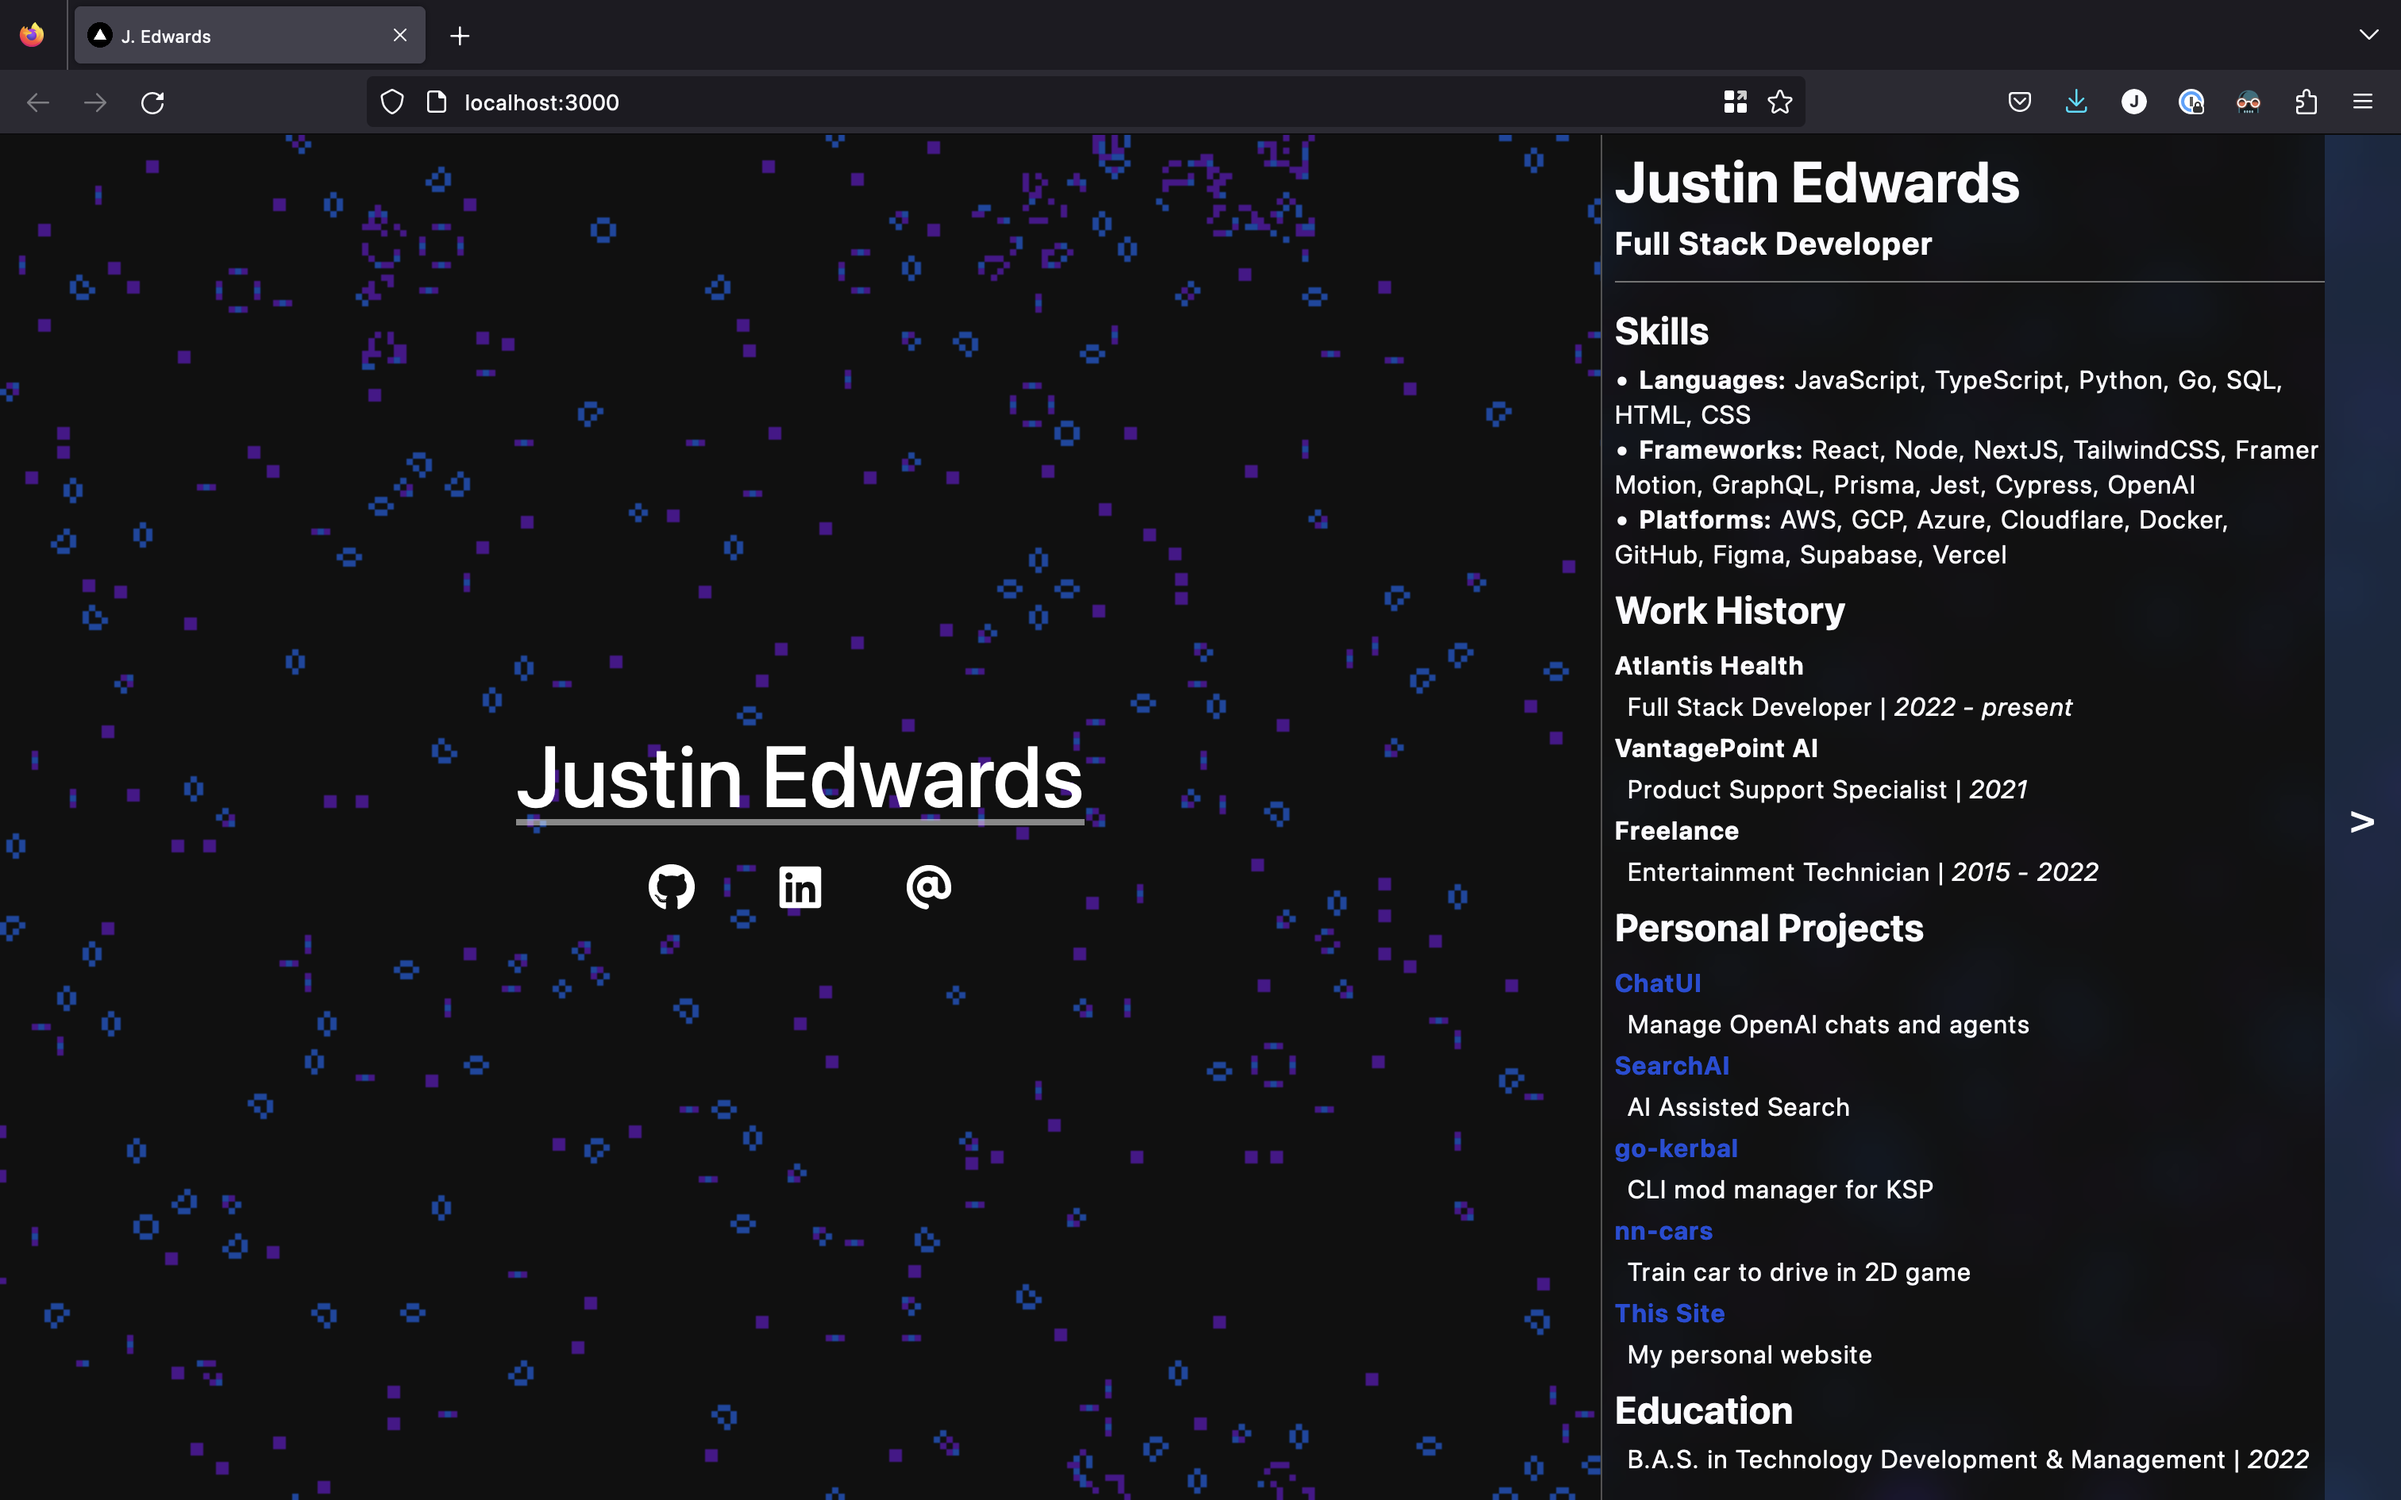
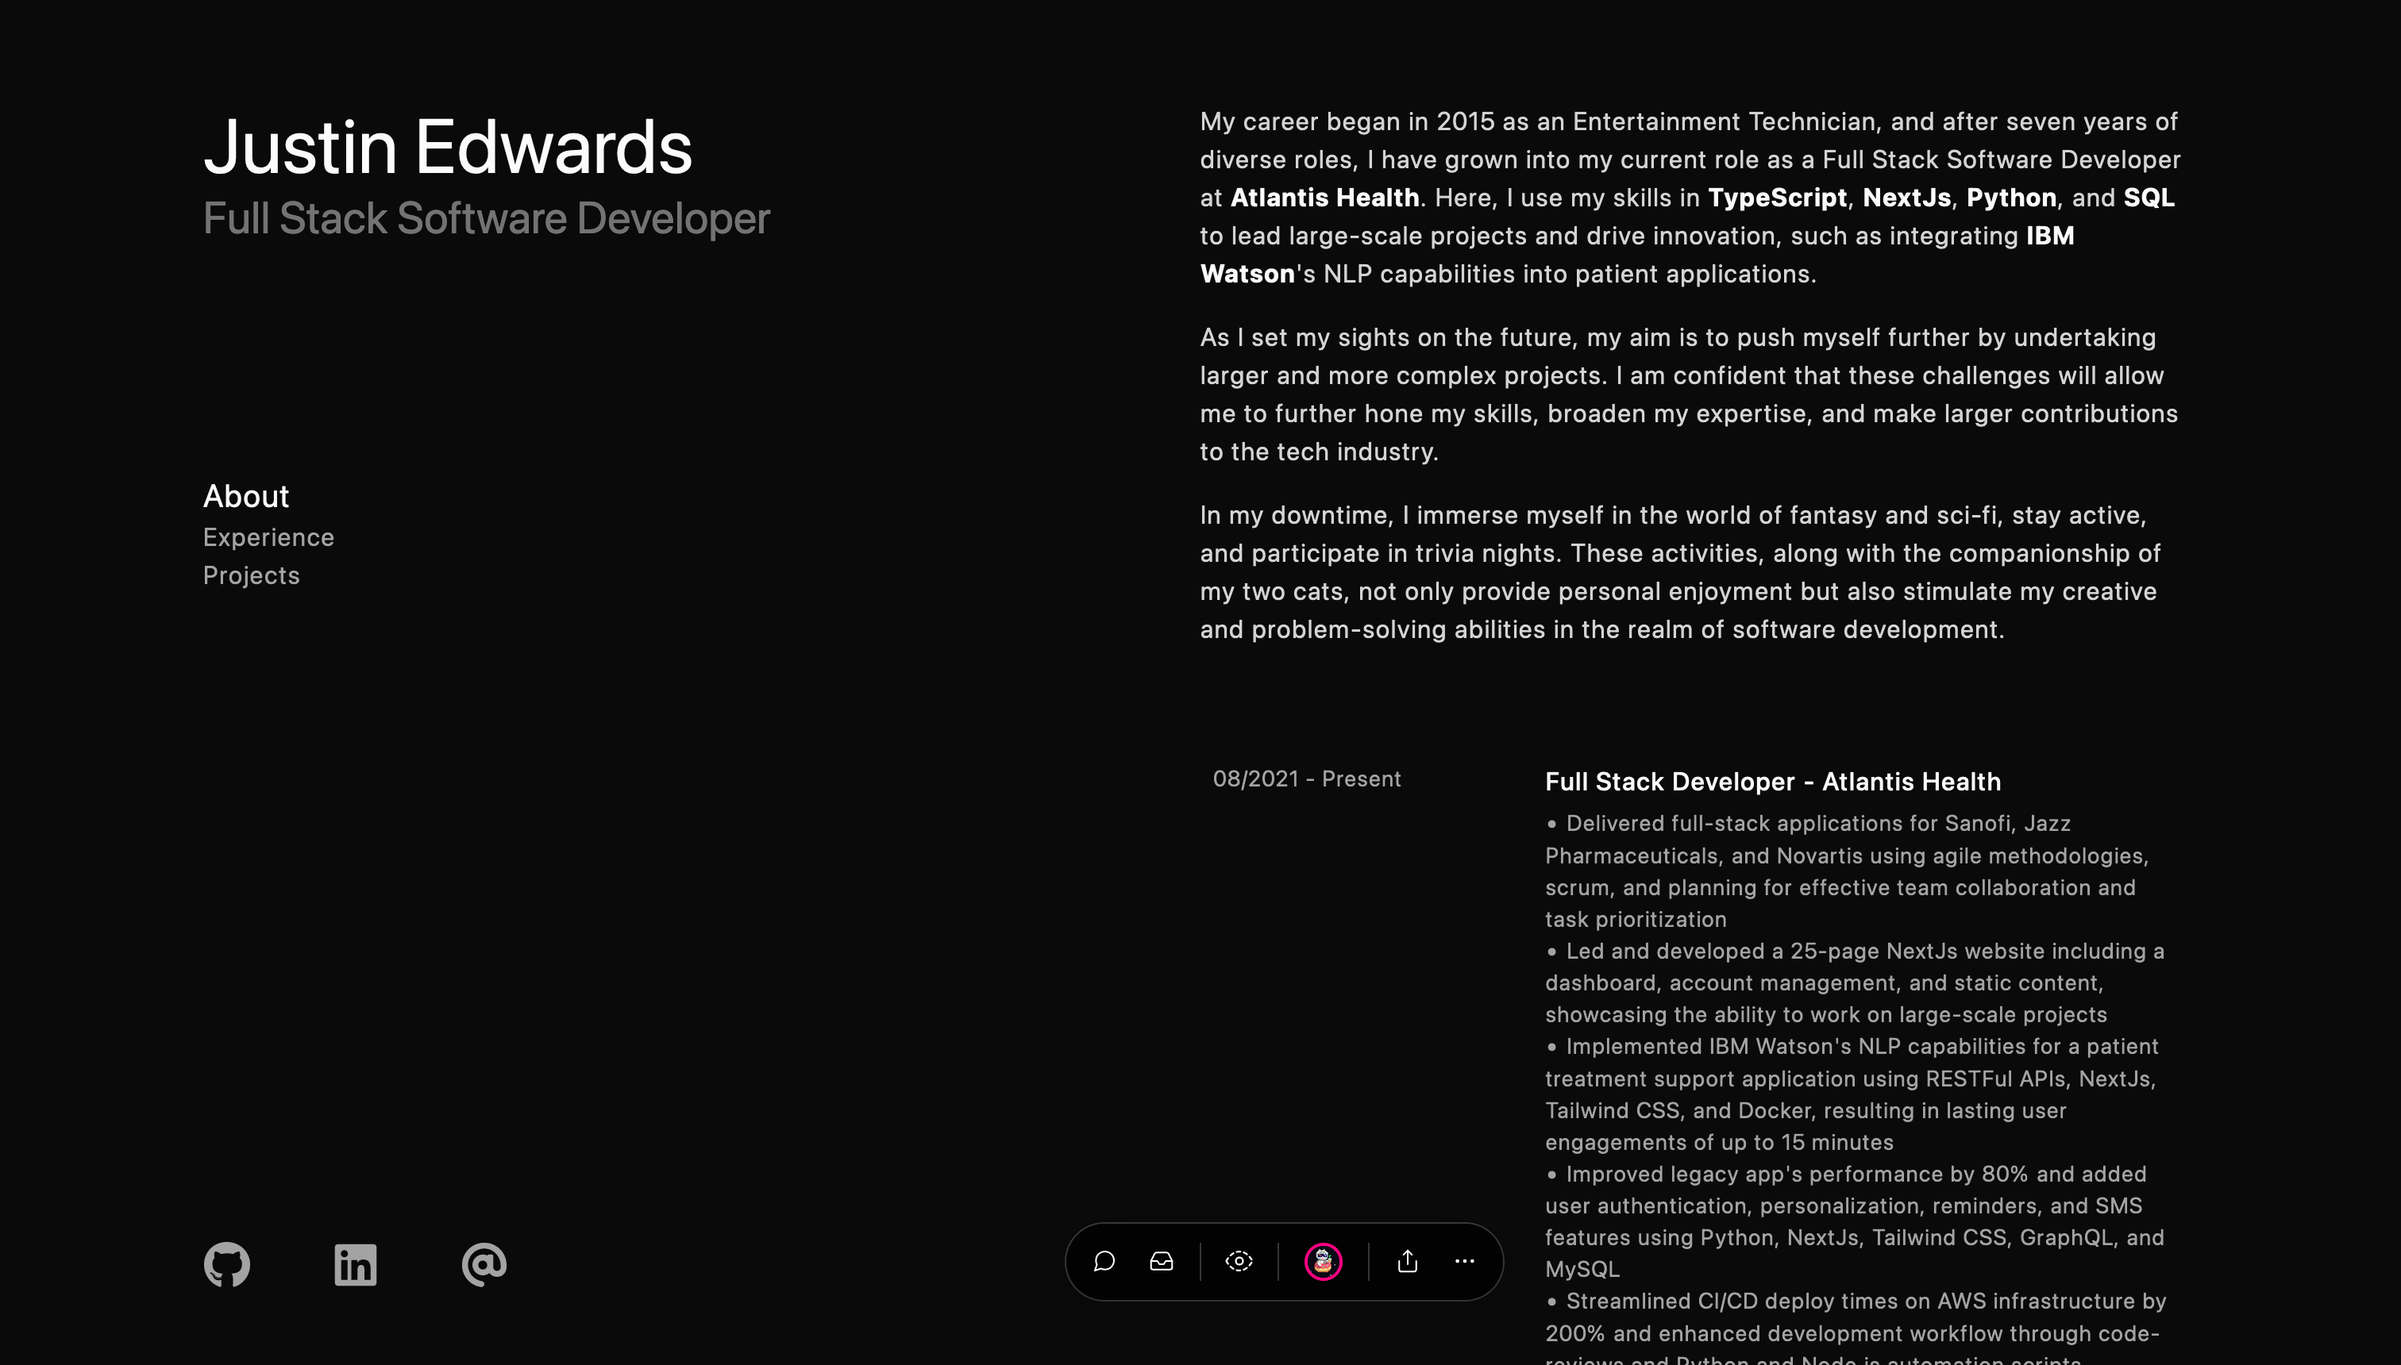
chore: update screenshot

diff --git a/README.md b/README.md
@@ -11,7 +11,4 @@ The website is built using the following technologies:
 -   [Next.js](https://nextjs.org/) 13: A framework for building React applications
 -   [TypeScript](https://www.typescriptlang.org/): A strongly-typed superset of JavaScript
 -   [Tailwind CSS](https://tailwindcss.com/): A utility-first CSS framework
-
-## Background Animation
-
-The background animation is implemented using TypeScript and a 2D \<canvas \/\> element. It is based on the Game of Life cellular automaton algorithm, which simulates the evolution of living cells on a grid.
+-   [Vercel](https://vercel.com/): A cloud platform for static sites and Serverless Functions
